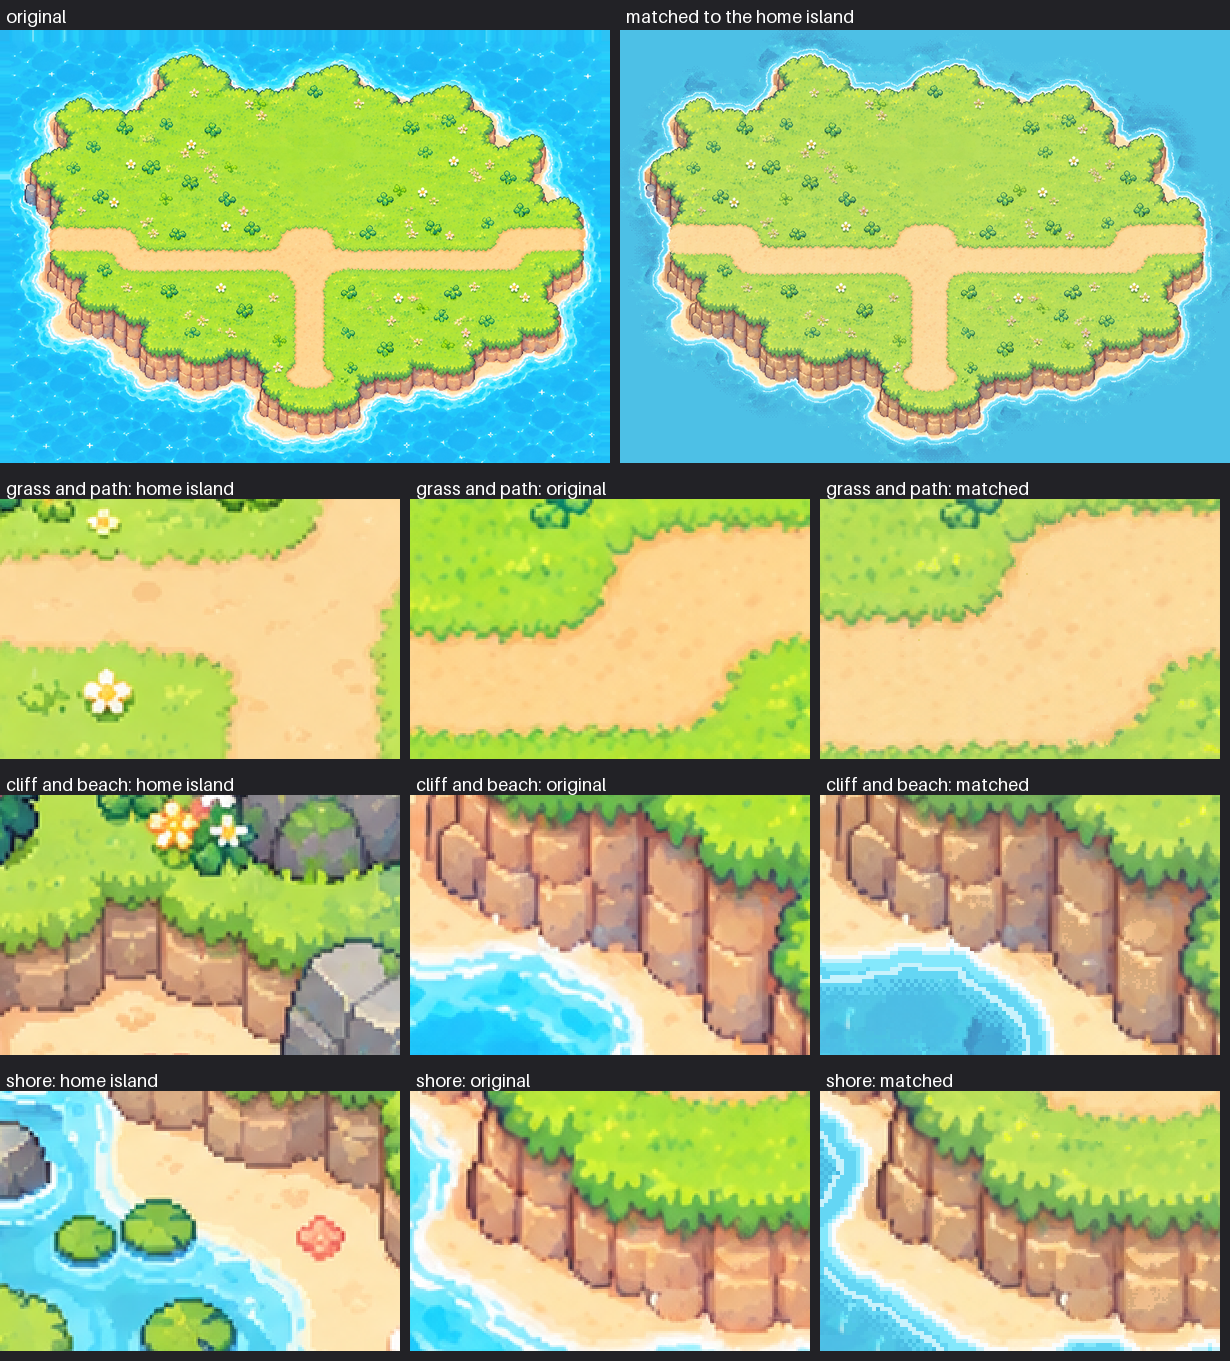
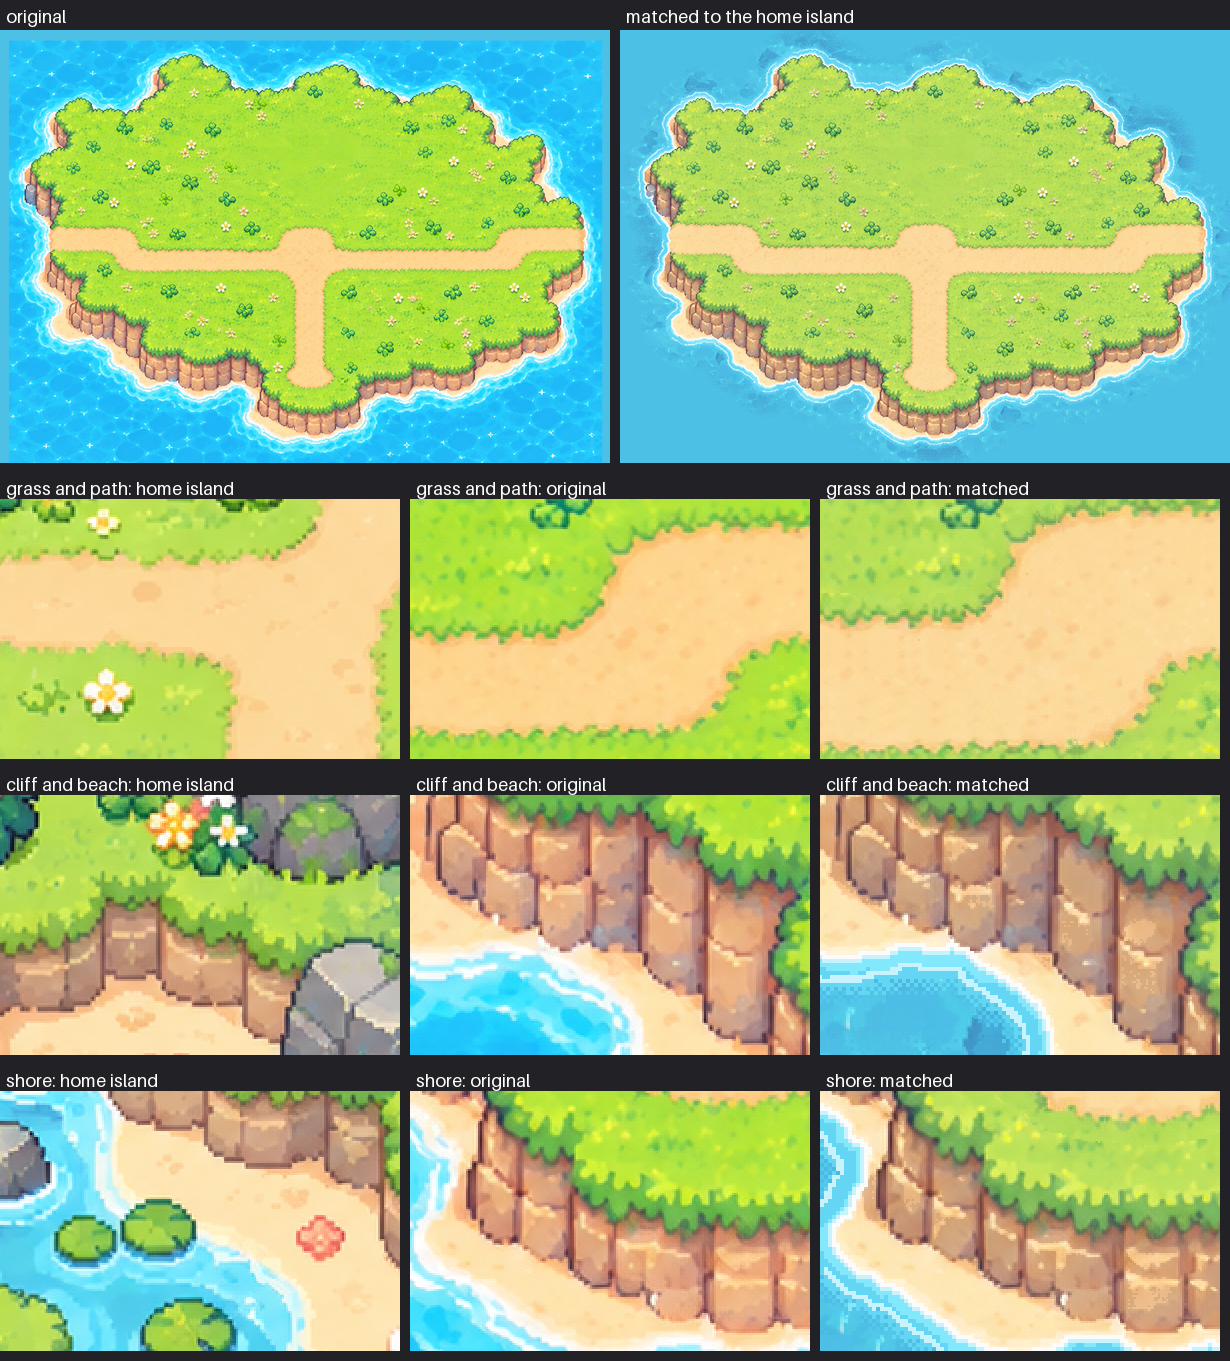
Start the school on the big map, and note the boat's problems in HANDOFF.md
- match_island.py: `python tools/match_island.py school` builds the school island as the
  game draws it (ground plus every object) and gives it new water like the other
  islands; its land stays exactly as it is (keep_land). Land cut off by the picture's
  edge becomes sea, and added sea is plain sea colour instead of stretched edge pixels
  (the five island pieces come out pixel-for-pixel the same).
- public/world/islands/school.png: the school's piece. Not placed on the map yet.
- HANDOFF.md: where the school work stopped (placement plan, dock positions), why the
  boat looks wrong (flat overhead view, left/right pictures backwards, 4 directions),
  and how to pull this branch on the PC.

Claude-Session: https://claude.ai/code/session_019WA1pPMdMXVRsKT4arc6i6

Changed region(s): [[0.0, 0.0, 0.4943, 0.3395]]

diff --git a/tools/match_island.py b/tools/match_island.py
@@ -2,6 +2,7 @@
 
 Run from the game folder:
   python tools/match_island.py source_art/archipelago/ground/sw_campfire.png
+  python tools/match_island.py school      (the school island as the game draws it: only new water)
 
 Everything Codex drew keeps its shape: the coastline, cliffs, paths, stairs and beach. What changes:
 - grass, paths, beach sand, cliff faces and stairs get the home island's own colours (each one's
@@ -58,6 +59,11 @@ ISLANDS = {
     },
     "n_orchard": {
         "widen_path": 8,                    # about 47 px wide as drawn
+    },
+    # the school island, as the game draws it (run with the name "school" instead of a picture):
+    # it's finished art, so its land stays exactly as it is and only its water is made new
+    "school": {
+        "keep_land": True,
     },
 }
 MARGIN = 84   # sea needed around the land for the piece's water to fade out (80 px) without being cut
@@ -147,6 +153,25 @@ def paint_water(land, seed=5):
 
 def load_home():
     return np.ascontiguousarray(np.array(Image.open(HOME_FILE).convert("RGB"))[::2, ::2])
+
+
+def school_picture():
+    """The school island as the game draws it: its ground with every object on it, in the order the
+    game draws them (src/school/assets.json). The pictures are stored at 2x."""
+    info = json.loads((ROOT / "src" / "school" / "assets.json").read_text())
+    school = ROOT / "public" / "school"
+    atlas = Image.open(school / "objects.png").convert("RGBA")
+    frames = json.loads((school / "objects.json").read_text())["frames"]
+    W, H = info["size"]
+    pic = Image.open(school / "ground.webp").convert("RGBA").resize((W, H), Image.NEAREST)
+    for o in sorted(info["objects"], key=lambda o: o["base"] - (1e4 if o["ground"] else 0)):
+        if o["id"] == "school":
+            im = Image.open(school / "school.png").convert("RGBA")
+        else:
+            f = frames[o["id"]]["frame"]
+            im = atlas.crop((f["x"], f["y"], f["x"] + f["w"], f["y"] + f["h"]))
+        pic.alpha_composite(im.resize((round(o["w"]), round(o["h"])), Image.NEAREST), (round(o["x"]), round(o["y"])))
+    return np.array(pic.convert("RGB"))
 
 
 def segment(img, stairs_boxes=()):
@@ -341,8 +366,15 @@ def nearest_fill(img, have):
     return img[idx[0], idx[1]]
 
 
-def match(img, home, stairs_boxes=(), widen=0, stairs_width=0):
+def match(img, home, stairs_boxes=(), widen=0, stairs_width=0, keep_land=False):
     seg = segment(img, stairs_boxes)
+    rgb = img.copy() if keep_land else new_land(img, home, seg, stairs_boxes, widen, stairs_width)
+    return new_water(img, home, seg, rgb), seg
+
+
+def new_land(img, home, seg, stairs_boxes, widen, stairs_width):
+    """The island's land with the home island's colours and texture, and wider paths and stairs.
+    Updates seg["path"] when the paths get wider."""
     lab = to_lab(img)
     home_lab = to_lab(home)
     out = lab
@@ -423,7 +455,11 @@ def match(img, home, stairs_boxes=(), widen=0, stairs_width=0):
                 on_path = ndimage.mean(seg["path"], gl, range(1, n + 1))
                 bits = np.isin(gl, 1 + np.flatnonzero((areas < 40) & (on_path > 0.5)))
                 rgb[bits] = textures["path"][bits]
+    return rgb
 
+
+def new_water(img, home, seg, rgb):
+    """The island's new water around its land `rgb`, and the piece's see-through edge (rgba)."""
     # water: painted on the art-pixel grid (2 x 2 picture pixels), like the rest of the art
     H, W = seg["land"].shape
     land_e = np.pad(seg["land"], ((0, H % 2), (0, W % 2)))
@@ -454,7 +490,7 @@ def match(img, home, stairs_boxes=(), widen=0, stairs_width=0):
     d = ndimage.distance_transform_edt(~land_art) * 2
     keep = (np.clip((80 - d) / 44, 0, 1) > bayer(land_art.shape)) | land_art
     alpha = up(keep).astype(np.uint8) * 255
-    return np.dstack([rgb, alpha]), seg
+    return np.dstack([rgb, alpha])
 
 
 def before_after(img, rgba, home, seg):
@@ -511,9 +547,12 @@ def main():
         sys.exit(__doc__)
     src = Path(args[0])
     name = re.sub(r"_v\d+$", "", src.stem)          # sw_campfire_v2 uses sw_campfire's settings
-    pic = np.array(Image.open(src).convert("RGBA"))
-    img = pic[..., :3].copy()
-    img[pic[..., 3] < 128] = SEA_BG                 # a see-through picture (land without its water): that part is sea
+    if args[0] == "school":
+        img = school_picture()
+    else:
+        pic = np.array(Image.open(src).convert("RGBA"))
+        img = pic[..., :3].copy()
+        img[pic[..., 3] < 128] = SEA_BG             # a see-through picture (land without its water): that part is sea
     cfg = ISLANDS.get(name, {})
     if "--masks" in sys.argv:
         # for setting up a new island: which kind of ground each pixel was taken for
@@ -528,18 +567,32 @@ def main():
         print("wrote", out.relative_to(ROOT))
         return
     home = load_home()
+    land = segment(img)["land"]
+    # land cut off by the picture's edge (like the islets in the school picture's corners) belongs
+    # to islands outside the picture: it becomes sea, unless it's the island itself
+    parts, n = ndimage.label(land)
+    if n > 1:
+        sizes = ndimage.sum(land, parts, range(1, n + 1))
+        edge = np.unique(np.concatenate([parts[0], parts[-1], parts[:, 0], parts[:, -1]]))
+        cut = [i for i in edge if i and i != 1 + np.argmax(sizes)]
+        if cut:
+            img[np.isin(parts, cut)] = SEA_BG
+            land = segment(img)["land"]
+            print(f"took out {len(cut)} bit(s) of land cut off by the picture's edge")
     # land closer than MARGIN to the picture's edge: add sea all round (the water is painted again
     # anyway); the piece then sits `pad` pixels further up and left in the big map
-    land = segment(img)["land"]
     ys, xs = np.nonzero(land)
     margin = min(ys.min(), xs.min(), img.shape[0] - 1 - ys.max(), img.shape[1] - 1 - xs.max())
     pad = max(0, MARGIN - int(margin) + 1) // 2 * 2
     stairs = cfg.get("stairs", [])
     if pad:
-        img = np.pad(img, ((pad, pad), (pad, pad), (0, 0)), mode="edge")
+        big = np.empty((img.shape[0] + 2 * pad, img.shape[1] + 2 * pad, 3), np.uint8)
+        big[:] = SEA_BG
+        big[pad:-pad, pad:-pad] = img
+        img = big
         stairs = [(x0 + pad, y0 + pad, x1 + pad, y1 + pad) for x0, y0, x1, y1 in stairs]
         print(f"added {pad} px of sea on every side (the land came within {margin} px of the edge)")
-    rgba, seg = match(img, home, stairs, cfg.get("widen_path", 0), cfg.get("stairs_width", 0))
+    rgba, seg = match(img, home, stairs, cfg.get("widen_path", 0), cfg.get("stairs_width", 0), cfg.get("keep_land", False))
     OUT.mkdir(parents=True, exist_ok=True)
     out = OUT / f"{src.stem}.png"
     Image.fromarray(rgba).save(out, optimize=True)

diff --git a/HANDOFF.md b/HANDOFF.md
@@ -1,8 +1,8 @@
 # Handoff: Capybara Islands (Phaser game)
 
-Last updated 2026-09-28 (second session). Read this first before changing anything in `E:\X Phaser`.
+Last updated 2026-09-28 (cloud session, stopped mid-task at the user's request to continue on the PC). Read this first before changing anything in `E:\X Phaser`.
 
-The folder is also on GitHub now: `paper-rockets/pixel-world`, work branch `claude/pixel-word-i-project-1c0cdp`. Cloud sessions (claude.ai/code) work in a fresh Linux copy of it, commit there and push to that branch; bring the changes to the PC with `git pull`.
+The folder is also on GitHub now: `paper-rockets/pixel-world`, work branch `claude/pixel-word-i-project-1c0cdp`. Cloud sessions (claude.ai/code) work in a fresh Linux copy of it, commit there and push to that branch. To bring the changes to the PC, in `E:\X Phaser`: `git fetch origin`, then `git checkout claude/pixel-word-i-project-1c0cdp` and `git pull`. If git says local changes would be overwritten (Codex also edits this folder), commit or stash them first. The Python tools need `pip install pillow numpy scipy opencv-python-headless`.
 
 ## Right now
 
@@ -21,7 +21,15 @@ The folder is also on GitHub now: `paper-rockets/pixel-world`, work branch `clau
 - **Islets** (`check/review_islets.png`, `check/match_islets.png`): ChatGPT with `concepts/archipelago/CHATGPT_3_islets.md`. Eight round grassy islands with slab cliffs and sand rims, close to the style on the first try. They needed softer colours, the home island's water, and 42 px of sea added (land came within 43 px of the edge). The zip (`islets_complete_package_clean.zip`) also had a "no water" picture, though the prompt asked for one: the same layout but a different drawing (bigger islands, taller cliffs, wide sand). The user asked to use it too, so it's the second set, `source_art/archipelago/ground/islets_2.png` (see-through where the sea goes; `match_island.py` fills that with sea). It needed 60 px of sea added (land came within 24 px of the edge). The islets have no planned place yet; `world_preview.py` scatters all 16 into open sea for the picture only.
 - **Orchard** (`check/review_n_orchard.png`, `check/match_n_orchard.png`): ChatGPT with `concepts/archipelago/CHATGPT_4_n_orchard.md`; the user pasted the picture straight into the chat (a full-size PNG), not as a zip. One wide island with a T of paths: west edge to east edge (the bridge landings), and a short branch south to a lookout. It needed softer grass, the home island's water, paths widened from ~47 to ~63 px, and 50 px of sea added (land came within 34 px of the edge). It's bigger than asked (1370 x 938 against 1150 x 800) but fits its planned place. Left as drawn: a small grey rock in the water at the foot of the west cliff (out of reach), and the smooth grass north of the crossing, where the vegetable garden goes.
 - The orchard's vegetable beds were left out of its ground picture on purpose: they come later as a separate flat piece with their fence and crops.
-- **Next:** `w_caves_pinktree` and `ne_pond`, which both have a pond. `match_island.py` can't handle ponds yet (see "Fixing new island art"), so add that when the first one comes in, before trusting its output. Reuse the ChatGPT prompt shape: numbered reference pictures, "picture 1, 2, 3", ground only, the sizes stated against the pictures, and "give it to me as a .zip with just this one picture inside" (the user asked for zips; they come back through the chat as uploads).
+- **In progress when the session stopped: the school on the big map.** The user asked to add the Willingdon School island to the big map.
+  - Done: `python tools/match_island.py school` builds the school exactly as the game draws it (its ground plus every object from `src/school/assets.json`) and gives it new water like the other islands. Its own sea is a stronger blue than the home island's and would show as a box. Its land and objects are untouched; the islet slices cut off in its corners are removed. Result: `public/world/islands/school.png` (72 px of sea added; `check/match_school.png`).
+  - Not done: its place. There's no room left in the 4608 x 3456 world, so the world must grow south (to roughly 4100–4600 tall; `WW`/`WH` in `world_preview.py`). Both docks face south: the home boat moors at world (2485, 2250) (home picture (905, 950)), the school boat at school picture (848, 1022). So the boat leaves home southward and comes up into the school's dock from below. Plan: try positions for the shortest route that keeps the school 200+ px from other islands and the route 150+ px from any land (leave out the 200 px next to each dock, where the boat is meant to be close to land). A search script for this was started and not finished. Then add `PLANNED["school"]` (in `review_island.py`), draw the school and its boat route (dotted) in `world_preview.py`, and keep islets off the route (the `busy` mask in `place_islets`, which now only covers the straight run south of the home dock).
+- **The boat needs new art** (the user: "the angles are weird"). What's wrong with `public/boat/`:
+  - Every boat picture is drawn straight down from above, but the islands are drawn at a slant (you see the tops and the south faces of cliffs and trees), so the boat looks like a flat sticker.
+  - In `boat_*_left.png` and `boat_*_right.png` the pointed front is on the wrong end (the "left" boat points right).
+  - There are only 4 directions, and `src/boat.js` only rows straight up or down, with a fade between islands.
+  - For sailing across the big map it needs the islands' slanted view, 8 directions (N, NE, E, SE, S, SW, W, NW), empty and with the capybara (plain, no orange shirt; see "Known small issues"), and wake frames. Then `boat.js` must steer along a route and pick the picture by heading. No prompt written yet; use the ChatGPT recipe (numbered reference pictures, one sheet, zip).
+- **Next islands:** `w_caves_pinktree` and `ne_pond`, which both have a pond. `match_island.py` can't handle ponds yet (see "Fixing new island art"), so add that when the first one comes in, before trusting its output. Reuse the ChatGPT prompt shape: numbered reference pictures, "picture 1, 2, 3", ground only, the sizes stated against the pictures, and "give it to me as a .zip with just this one picture inside" (the user asked for zips; they come back through the chat as uploads).
 - Other prompts on file: `concepts/archipelago/CODEX_2_next_island.md` (the meadow for Codex, with the updated style rules), and `concepts/archipelago/CODEX_FIX_1_sw_campfire.md` (a Codex redraw of the campfire island, if flat-slab cliffs are ever wanted there). `concepts/archipelago/CODEX_PROMPT.md` has the measured palette, the cliff shape, the texture rule, and the real path and stair widths.
 - The game itself is the normal small Sunny Meadow and works. Both published links were updated on 2026-09-28 with the hiding-spot wiggle fix (Lost Ducklings version 9, Orange Garden version 5).
 
@@ -95,6 +103,7 @@ python tools/match_island.py source_art/archipelago/ground/<name>.png --masks  #
 - Per island settings go in `ISLANDS` at the top of the file: boxes around stairs (they can't be told from cliffs by colour), how far to widen the paths, and how wide to make the stairs. Check `--masks` for a new island first.
 - Several islands in one picture work (the islets): both tools keep every island bigger than 2% of the largest, and the check sheet shows a grass close-up when there's no path.
 - See-through pictures work too (an island without its water, like `islets_2.png`): anything more than half see-through is taken for sea.
+- `python tools/match_island.py school` is the school island as the game draws it; its `keep_land` setting keeps the land exactly as it is and only makes new water. Land cut off by the picture's edge (other than the island itself) is turned into sea, and added sea is plain sea colour (it used to stretch the edge pixels, which smeared any land touching the edge).
 - A cove (sand between grass and the sea) is beach, not path: sand with more than 20% sea around it is beach. Real paths have 5% or less, even where they run to the island's edge.
 - Sand is told from pale cliff faces by hue: sand is yellow-beige (hue above 28), while even the palest cliffs are more orange. Pale specks in the grass smaller than 400 px aren't paths.
 - See the whole map with `python tools/world_preview.py` (about a minute). Its sea is sewn from the home island's open water, as planned for the real map, so the pieces fade into it without a seam. Every islets picture (`islets*.png`) is cut into single islands, each with only the water nearest to it, and each is dropped into the most open sea, clear of the islands and of the boat's channel. Add `--full` for a full-size copy (`check/world_now_full.jpg`, about 5 MB, not kept in git) when the user wants to zoom in.
